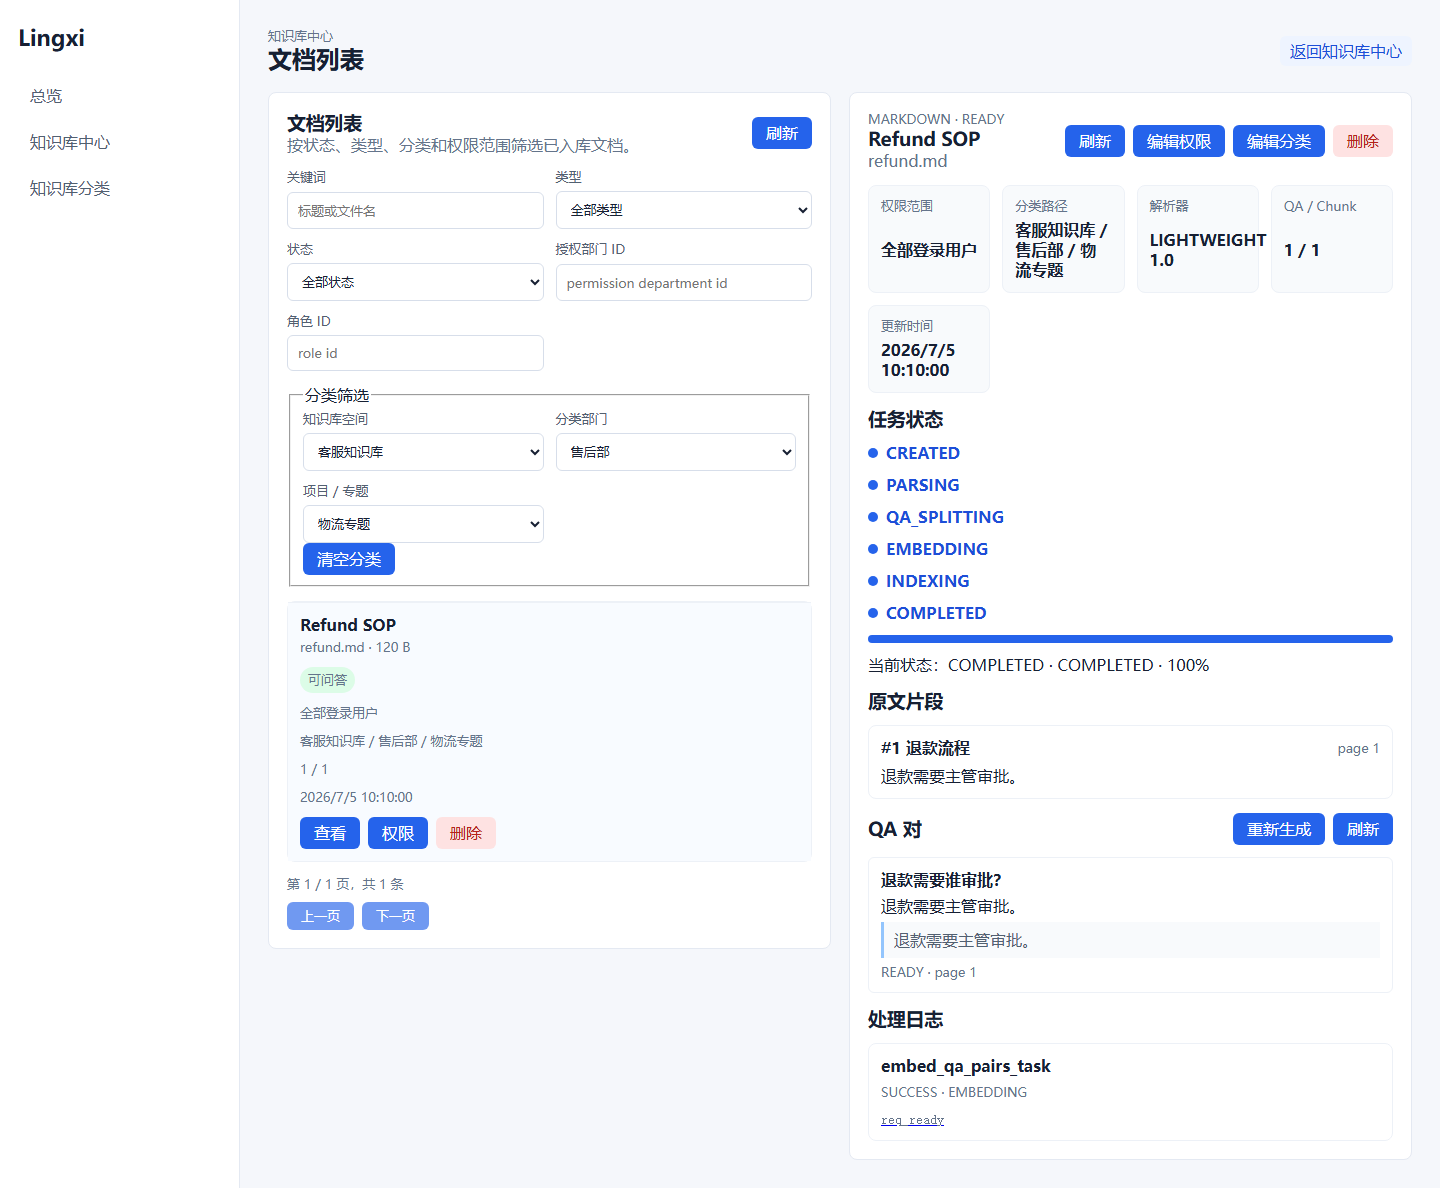
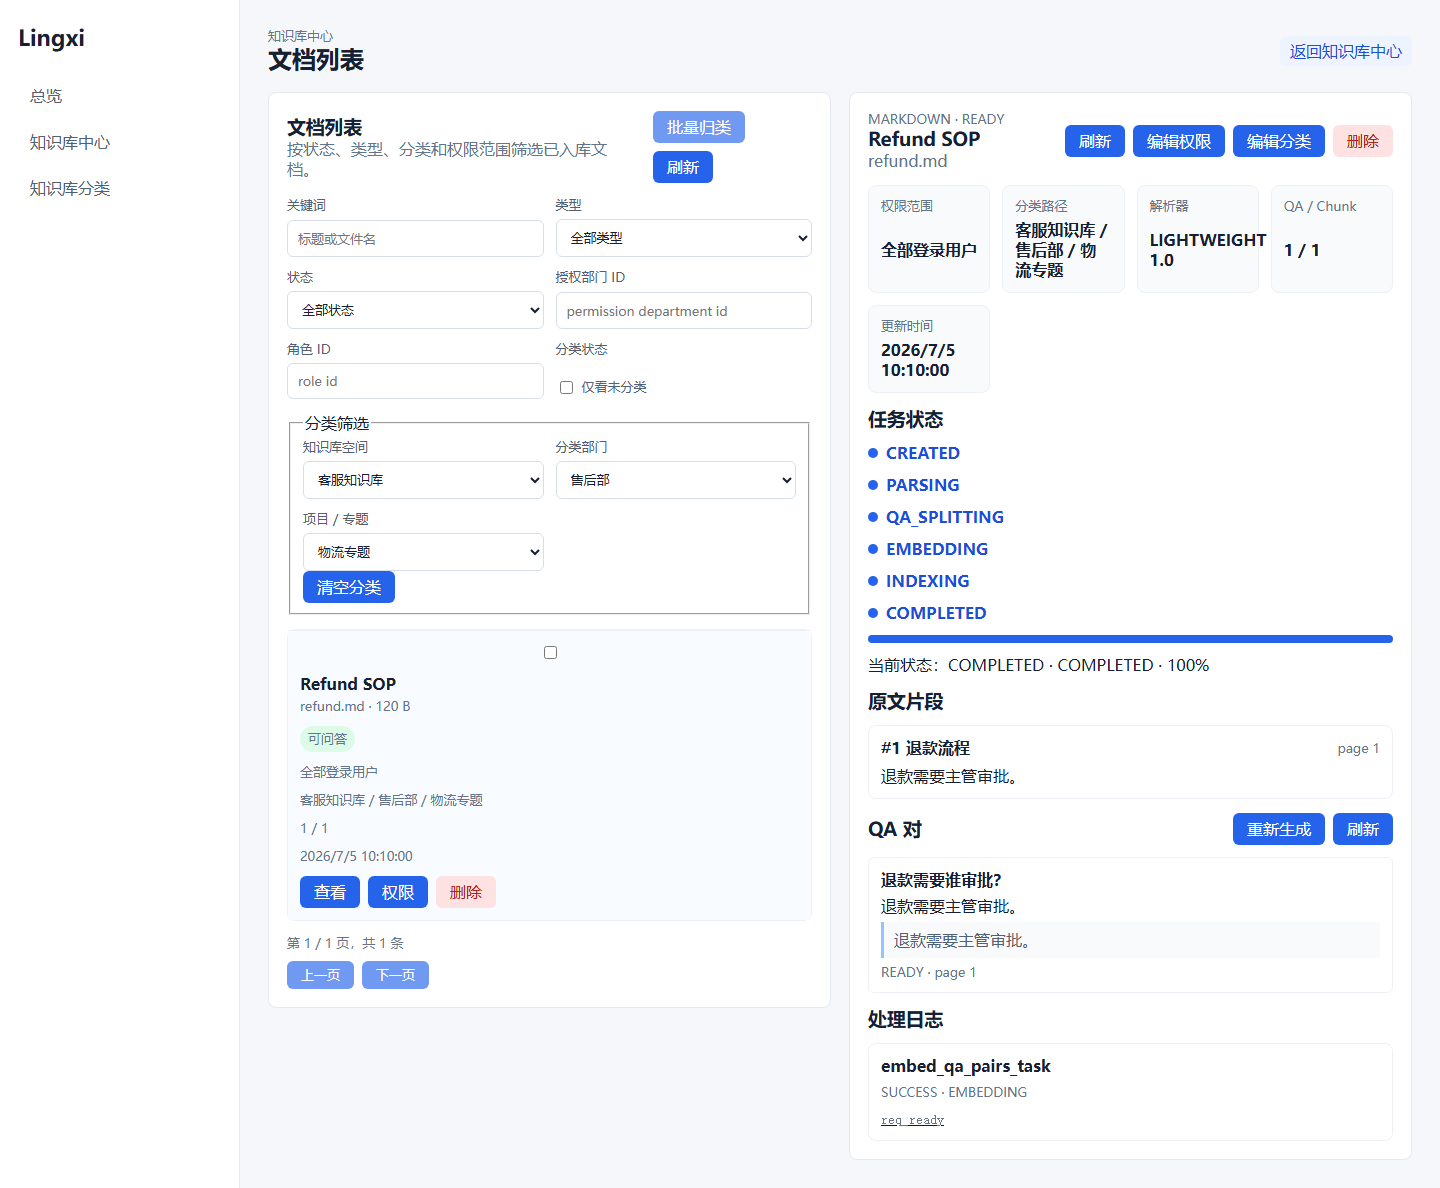
test: validate knowledge category phase 3 acceptance

Changed region(s): [[0.1875, 0.0934, 0.5625, 0.8409], [0.375, 0.3114, 0.4375, 0.4049]]

diff --git a/server/tests/test_chat_sse.py b/server/tests/test_chat_sse.py
@@ -180,6 +180,84 @@ def test_chat_message_run_passes_retrieval_scope_to_sse_retrieval():
         assert cited_titles == {"Refund SOP"}
 
 
+def test_chat_category_scope_switch_keeps_same_question_inside_selected_category():
+    client, SessionLocal = build_test_client()
+    _seed_chat_data(SessionLocal)
+    headers = login_employee(client)
+    with SessionLocal() as session:
+        from server.app.models.user import Department
+
+        support_department_id = session.scalar(
+            select(Department.id).where(Department.code == "SUPPORT")
+        )
+    session_id = client.post(
+        "/api/v1/chat/sessions", headers=headers, json={"title": "分类切换"}
+    ).json()["id"]
+
+    refund_response = client.post(
+        f"/api/v1/chat/sessions/{session_id}/message-runs",
+        headers=headers,
+        json={
+            "content": "退款需要谁审批？",
+            "retrievalScope": {
+                "spaceId": "space-support",
+                "classificationDepartmentId": support_department_id,
+                "categoryId": "cat-refund",
+            },
+        },
+    )
+    assert refund_response.status_code == 200
+    assert "Refund SOP" in refund_response.text
+
+    from server.app.models.chat import QueryCitation, QueryRun
+    from server.app.models.document import Document
+
+    with SessionLocal() as session:
+        refund_run = session.scalar(
+            select(QueryRun).order_by(QueryRun.created_at.desc())
+        )
+        assert refund_run is not None
+        first_run_id = refund_run.id
+
+    invoice_response = client.post(
+        f"/api/v1/chat/sessions/{session_id}/message-runs",
+        headers=headers,
+        json={
+            "content": "退款需要谁审批？",
+            "retrievalScope": {
+                "spaceId": "space-support",
+                "classificationDepartmentId": support_department_id,
+                "categoryId": "cat-invoice",
+            },
+        },
+    )
+
+    assert invoice_response.status_code == 200
+    assert "event: done" in invoice_response.text
+    assert "Refund SOP" not in invoice_response.text
+
+    with SessionLocal() as session:
+        invoice_run = session.scalar(
+            select(QueryRun)
+            .where(QueryRun.id != first_run_id)
+            .order_by(QueryRun.created_at.desc())
+        )
+        assert invoice_run is not None
+        assert (
+            invoice_run.retrieval_snapshot["filters"]["scopeCategoryId"]
+            == "cat-invoice"
+        )
+
+        citations = session.scalars(
+            select(QueryCitation).where(QueryCitation.run_id == invoice_run.id)
+        ).all()
+        cited_titles = {
+            session.get(Document, citation.document_id).title for citation in citations
+        }
+        assert "Refund SOP" not in cited_titles
+        assert cited_titles <= {"Invoice SOP"}
+
+
 def test_chat_low_confidence_refuses_without_citation():
     client, SessionLocal = build_test_client()
     _seed_chat_data(SessionLocal)

diff --git a/docs/development/v1.1/phase3-knowledge-category-acceptance.md b/docs/development/v1.1/phase3-knowledge-category-acceptance.md
@@ -1,0 +1,45 @@
+# 第三阶段知识库分类检索验收证据
+
+日期：2026-07-29  
+范围：Task 7「第三阶段端到端验收和回归测试」
+
+## 覆盖说明
+
+- 后端检索范围：`RetrievalAccessScope` 的空间 / 部门 / 分类过滤与文档访问权限组合回归。
+- 聊天接口：聊天 SSE 请求携带分类检索范围，QueryRun 记录检索范围，同一问题切换分类后不会继续引用原分类文档。
+- 引用与解释：引用源、引用卡片、检索解释展示分类路径并保持权限校验。
+- 分类运营：统计 API、未分类筛选、批量归类、删除保护、文档迁移接口回归。
+- 前端验收：知识库分类管理 / 文档批量归类与迁移、聊天检索范围、引用与检索解释 Playwright 用例更新截图证据。
+
+## 自动化验证结果
+
+| 命令 | 结果 |
+| --- | --- |
+| `.\.venv\Scripts\python.exe -m pytest server/tests/test_retrieval_repo.py server/tests/test_retrieval_service.py -q` | 13 passed |
+| `.\.venv\Scripts\python.exe -m pytest server/tests/test_chat_sse.py server/tests/test_citations_and_explanation.py -q` | 15 passed，1 个 Starlette/httpx deprecation warning |
+| `.\.venv\Scripts\python.exe -m pytest server/tests/test_knowledge_classification.py server/tests/test_knowledge_documents_api.py server/tests/test_document_permissions.py -q` | 33 passed，Starlette/httpx 与 Alembic deprecation warnings |
+| `npm run typecheck`（`web/admin`） | passed |
+| `npm run lint`（`web/admin`） | 0 errors，6 个既有 React Hook warnings |
+| `npm run build`（`web/admin`） | passed，Vite production build 完成 |
+| `python web/admin/tests/t09_knowledge_playwright.py` | passed，更新知识库分类 / 文档验收截图 |
+| `python web/admin/tests/t11_chat_playwright.py` | passed，更新聊天验收截图 |
+| `python web/admin/tests/t12_citation_explanation_playwright.py` | passed，更新引用与检索解释验收截图 |
+
+## 关键端到端证据
+
+- `server/tests/test_chat_sse.py::test_chat_category_scope_switch_keeps_same_question_inside_selected_category`：真实 TestClient API + SSE 链路验证同一问题在「退款专题」可引用 `Refund SOP`，切换到 `cat-invoice` 后响应和落库引用均不再包含 `Refund SOP`，同时 QueryRun snapshot 记录 `scopeCategoryId=cat-invoice`。
+- `docs/development/v1.1/acceptance/t09-knowledge-classification-desktop.png`：分类管理页展示统计数字、删除保护与迁移入口。
+- `docs/development/v1.1/acceptance/t09-knowledge-documents-desktop.png`：文档列表展示未分类筛选、批量归类流程。
+- `docs/development/v1.1/acceptance/t11-chat-desktop.png`、`docs/development/v1.1/acceptance/t11-chat-mobile.png`：聊天页检索范围选择与分类范围请求。
+- `docs/development/v1.1/acceptance/t12-citation-desktop.png`：引用和检索解释展示分类路径。
+
+## 验收 Checkpoint
+
+- [x] 聊天 / 检索可按分类限定范围。
+- [x] 分类过滤不绕过文档访问权限。
+- [x] QueryRun 或 retrieval snapshot 能记录分类范围。
+- [x] 引用和解释面板能展示分类路径。
+- [x] 分类管理页能展示统计。
+- [x] 文档列表支持未分类筛选和批量归类。
+- [x] 分类删除保护和迁移流程可用。
+- [x] 后端与前端主要回归测试通过。
